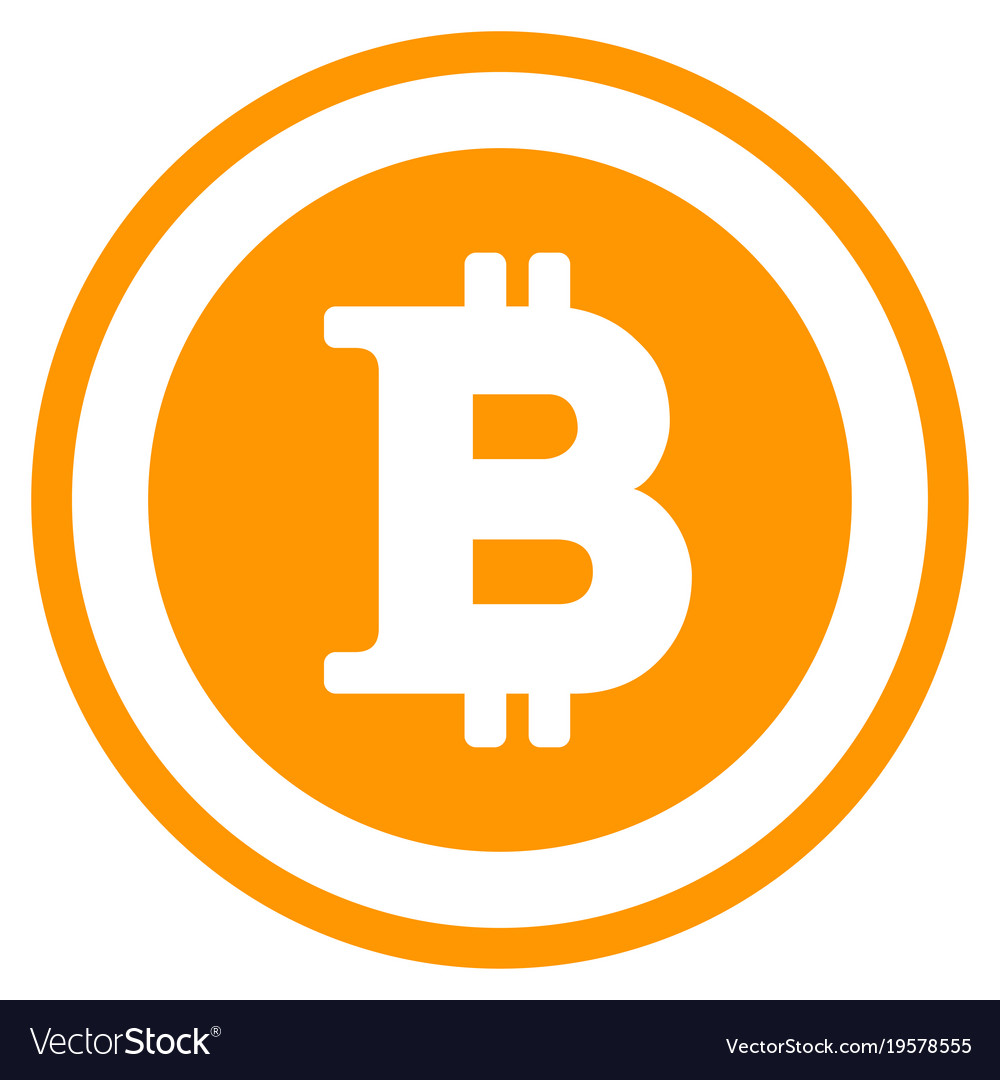
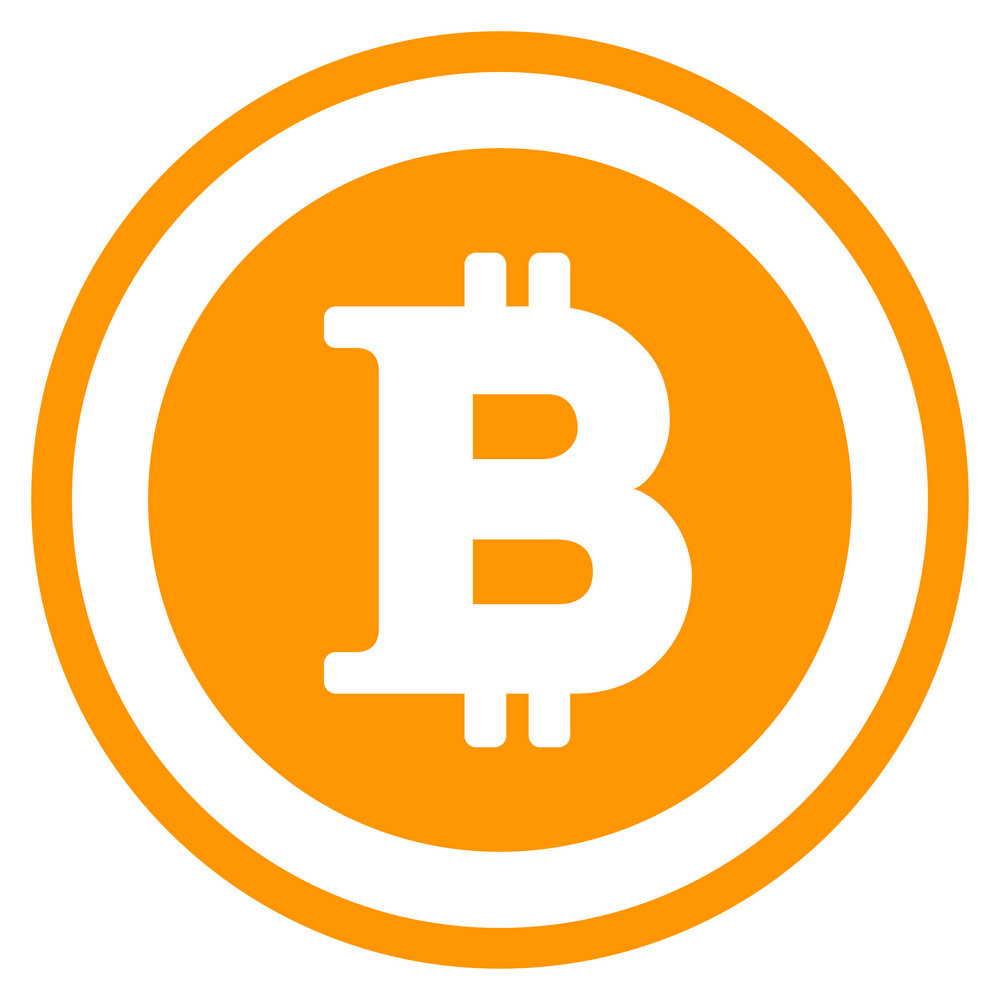
fix(coinjoin): refetch when needed

diff --git a/front/src/components/coinjoin/coinjoin-status.tsx b/front/src/components/coinjoin/coinjoin-status.tsx
@@ -1,13 +1,14 @@
-import { Box, Button, Text, Link } from "@chakra-ui/react";
+import { Box, Button, Text, Link, useToast } from "@chakra-ui/react";
 
 import { CoinJoinApi } from "@/apis";
 import { FC, useEffect } from "react";
 import moment from "moment";
 import TimeAgo from "timeago-react";
-import { useMutation, useQuery } from "react-query";
+import { useMutation, useQuery, useQueryClient } from "react-query";
 
 import { listen } from "@tauri-apps/api/event";
 import { CachePrefixKeys } from "@/consts";
+import { useNoti } from "@/hooks";
 
 interface ICoinjoinStatus {
   deriv: string;
@@ -21,10 +22,25 @@ interface ICoinjoinStatus {
 export const CoinjoinStatus: FC<ICoinjoinStatus> = (props) => {
   const { deriv, roomId, endOfDue1, endOfDue2, status, txid } = props;
   const now = moment().unix() * 1000;
+  const noti = useNoti();
+  const queryClient = useQueryClient();
 
   const { mutateAsync: onSignBtnClick, isLoading: isSigning } = useMutation(
     async (data: { deriv: string; roomId: string }) => {
-      await CoinJoinApi.signTxn(data.deriv, data.roomId);
+      try {
+        const res = await CoinJoinApi.signTxn(data.deriv, data.roomId);
+        console.log("[CJ] Sign transaction response:", JSON.stringify(res));
+        noti.success("Signed successfully");
+        queryClient.invalidateQueries([
+          CachePrefixKeys.RoomStatus,
+          deriv,
+          roomId,
+        ]);
+        queryClient.invalidateQueries([CachePrefixKeys.ListRooms]);
+      } catch (e) {
+        await CoinJoinApi.signTxn(data.deriv, data.roomId);
+        noti.error("Got an error", e as string);
+      }
     },
   );
 

diff --git a/front/src/components/statechain/statechain-card.tsx b/front/src/components/statechain/statechain-card.tsx
@@ -7,6 +7,7 @@ import {
   Flex,
   Button,
   Badge,
+  Avatar,
 } from "@chakra-ui/react";
 import { useClipboard } from "@chakra-ui/react";
 import { useRouter } from "next/router";
@@ -20,7 +21,7 @@ interface StateChainCardProps {
 }
 
 export function StateChainCard(props: StateChainCardProps) {
-  const { val, key, deriv } = props;
+  const { val, key } = props;
   const router = useRouter();
   const { onCopy, hasCopied } = useClipboard(val.statechain_id);
   const handleDetailButtonClick = () => {
@@ -41,11 +42,7 @@ export function StateChainCard(props: StateChainCardProps) {
       wrap={"wrap"}
     >
       <Flex justifyContent={"space-between"} mb={"6px"}>
-        <Image
-          borderRadius="full"
-          boxSize="9%"
-          src="https://i.ibb.co/R91rN3Q/statechain.png"
-        />
+        <Avatar h="54px" w="54px" src="/statecoin-icon.png" />
         <Flex
           w={"100%"}
           justifyContent={"space-between"}

diff --git a/front/src/hooks/atoms/use-noti.ts b/front/src/hooks/atoms/use-noti.ts
@@ -1,0 +1,38 @@
+import { useToast } from "@chakra-ui/react";
+import { useCallback } from "react";
+
+export const useNoti = () => {
+  const toast = useToast();
+  const success = useCallback(
+    (m: string, d: string | undefined = undefined) => {
+      toast({
+        title: m,
+        description: d,
+        status: "success",
+        position: "top",
+        isClosable: true,
+        duration: 2000,
+      });
+    },
+    [toast],
+  );
+
+  const error = useCallback(
+    (m: string, d: string | undefined = undefined) => {
+      toast({
+        title: m,
+        description: d,
+        status: "error",
+        position: "top",
+        isClosable: true,
+        duration: 2000,
+      });
+    },
+    [toast],
+  );
+
+  return {
+    success,
+    error,
+  };
+};

diff --git a/front/src/components/utxo/utxo-card.tsx b/front/src/components/utxo/utxo-card.tsx
@@ -32,11 +32,7 @@ export function UtxoCard(props: IUtxoCard) {
       justify="space-between"
       alignItems="center"
     >
-      <Image
-        borderRadius="full"
-        boxSize="54px"
-        src="https://i.ibb.co/M6xxyd6/istockphoto-905413264-612x612.jpg"
-      />
+      <Image borderRadius="full" boxSize="54px" src="/bitcoin-icon.jpg" />
       <HStack justify="space-between" ml="16px" alignItems="center" w="100%">
         <VStack spacing="8px" alignItems="start">
           <Badge

diff --git a/front/src/consts/index.ts b/front/src/consts/index.ts
@@ -4,6 +4,6 @@ export * from "./cache-prefix-key";
 export const DEFAULT_AVATAR =
   "https://cdn.alongwalk.info/vn/wp-content/uploads/2022/11/16190847/99-hinh-avatar-cute-ngau-ca-tinh-de-thuong-nhat-cho-nam-nu1668575327.jpg";
 
-export const COINJOIN_FEE = 150;
+export const COINJOIN_FEE = 200;
 export const STATECOIN_FEE = 300;
 export const STATECOIN_MIN = 301;

diff --git a/front/src/pages/home/index.tsx b/front/src/pages/home/index.tsx
@@ -6,7 +6,7 @@ import { useQuery } from "react-query";
 
 import { Layout } from "@/components";
 import { AppApi } from "@/apis";
-import { CachePrefixKeys, DEFAULT_AVATAR } from "@/consts";
+import { CachePrefixKeys } from "@/consts";
 import { derivBase64 } from "@/utils";
 
 export default function Home() {

diff --git a/front/src/pages/profile/[deriv]/withdraw.tsx b/front/src/pages/profile/[deriv]/withdraw.tsx
@@ -82,7 +82,7 @@ export default function Withdraw() {
                 />
               </HStack>
 
-              <HStack marginY={"36px"}>
+              <HStack w="full" justify="center">
                 <Button
                   p="10px 50px"
                   borderRadius="full"

diff --git a/front/src/hooks/atoms/index.ts b/front/src/hooks/atoms/index.ts
@@ -1,3 +1,4 @@
 export * from "./use-deriv";
 export * from "./use-app";
 export * from "./use-logout";
+export * from "./use-noti";
